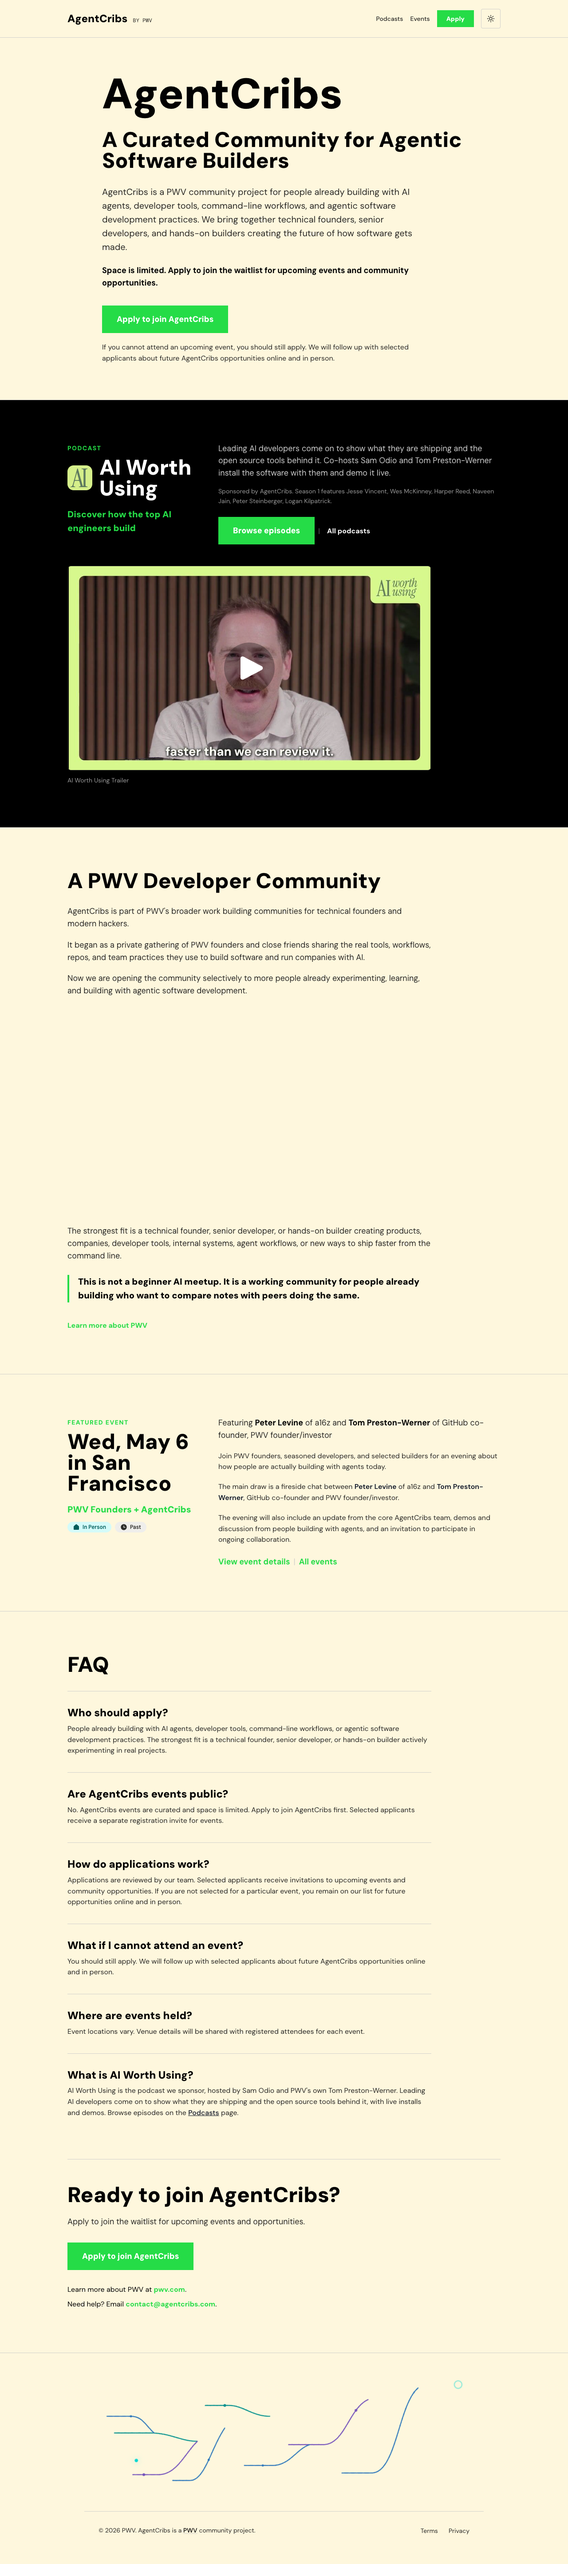
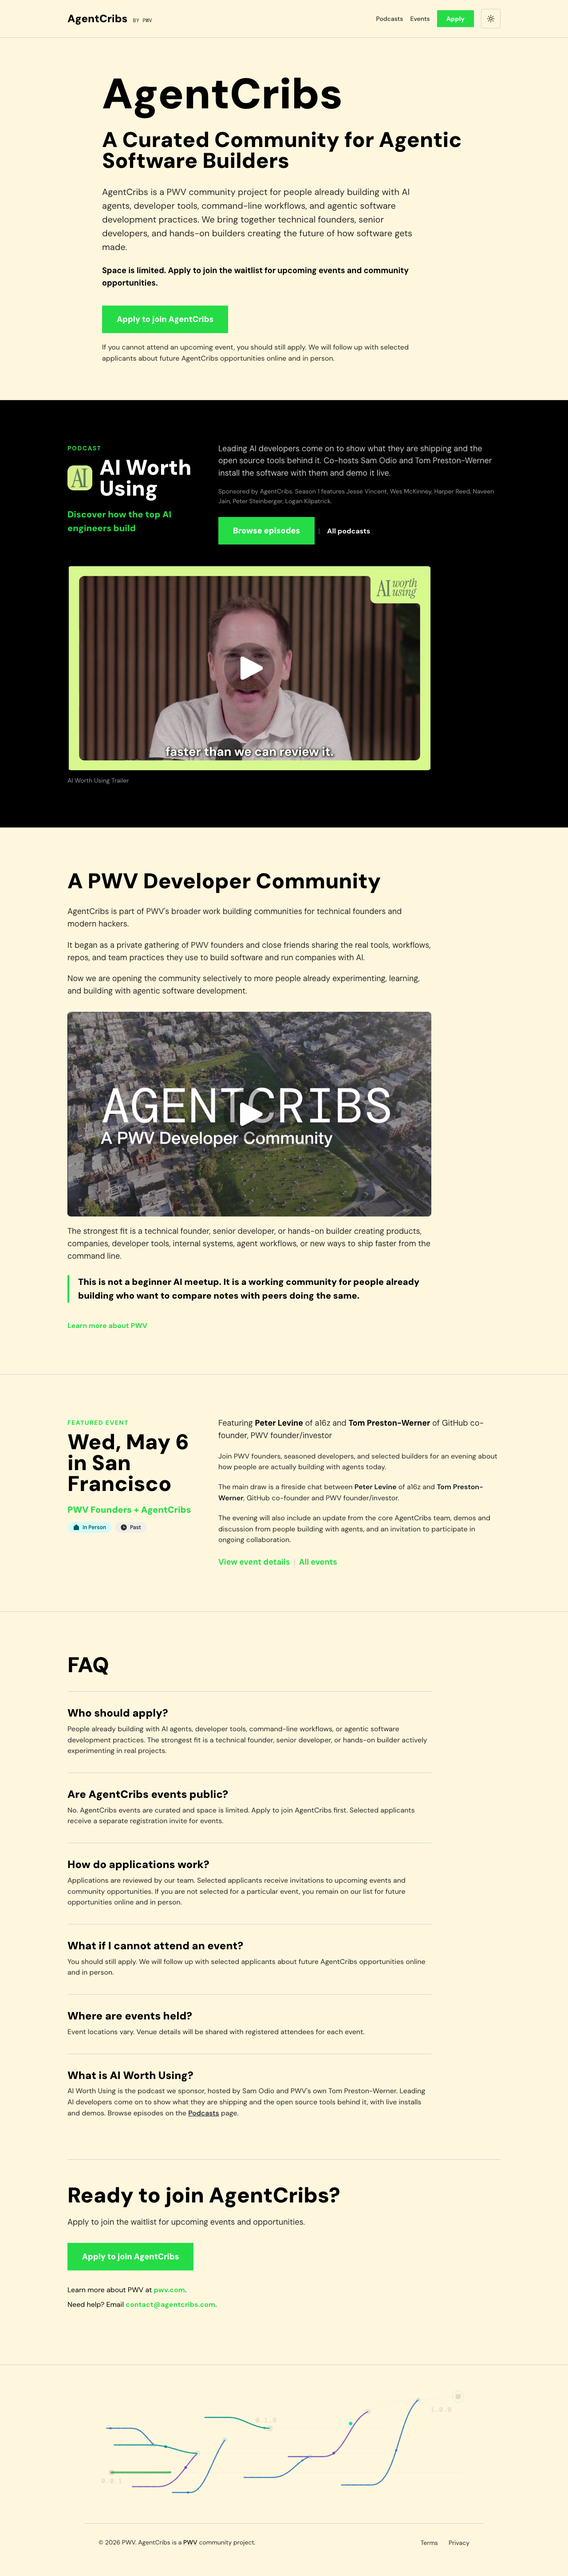
screenshots

diff --git a/.commandcode/taste/taste.md b/.commandcode/taste/taste.md
@@ -84,9 +84,4 @@ See [data/taste.md](data/taste.md)
 - Make OG image dimensions content-driven too — expose `ogImageWidth`/`ogImageHeight` frontmatter fields rendered as `og:image:width`/`og:image:height` instead of hardcoding pixel sizes (1200×630, 1500×1500) in page components. Confidence: 0.75
 
 # screenshots
-- For team previews meant to be reviewed offline, deliver full-page screenshots saved as PNGs in the project's `screenshots/` directory (named `<page>-full.png`), not just live URLs. Confidence: 0.7
-- Before capturing a full-page screenshot, scroll stepwise through the page (repeated `scrollBy` with pauses) to trigger lazy-loaded images and embeds, wait until every `<img>` reports `complete && naturalWidth > 0`, then scroll back to top and capture — otherwise below-the-fold assets render as black boxes. Confidence: 0.8
-- Lazy iframes (video/trailer embeds) need extra dwell time centered in view (~5–10s) before they mount and render; verify with a quick viewport screenshot before the final full-page capture. Confidence: 0.7
-- Run browser automation in an isolated named session (e.g., `agent-browser --session <project>-shots`) instead of the default shared session, so concurrently open human/other-agent tabs can't hijack or pollute captures. Confidence: 0.7
-- Always visually verify each captured screenshot by reading the image back and checking for black boxes or missing content before handing it off. Confidence: 0.7
-- Clean up fully after browser capture tasks: delete temporary check screenshots, close the browser session, and kill the background dev server that was started for the task. Confidence: 0.7
+See [screenshots/taste.md](screenshots/taste.md)
